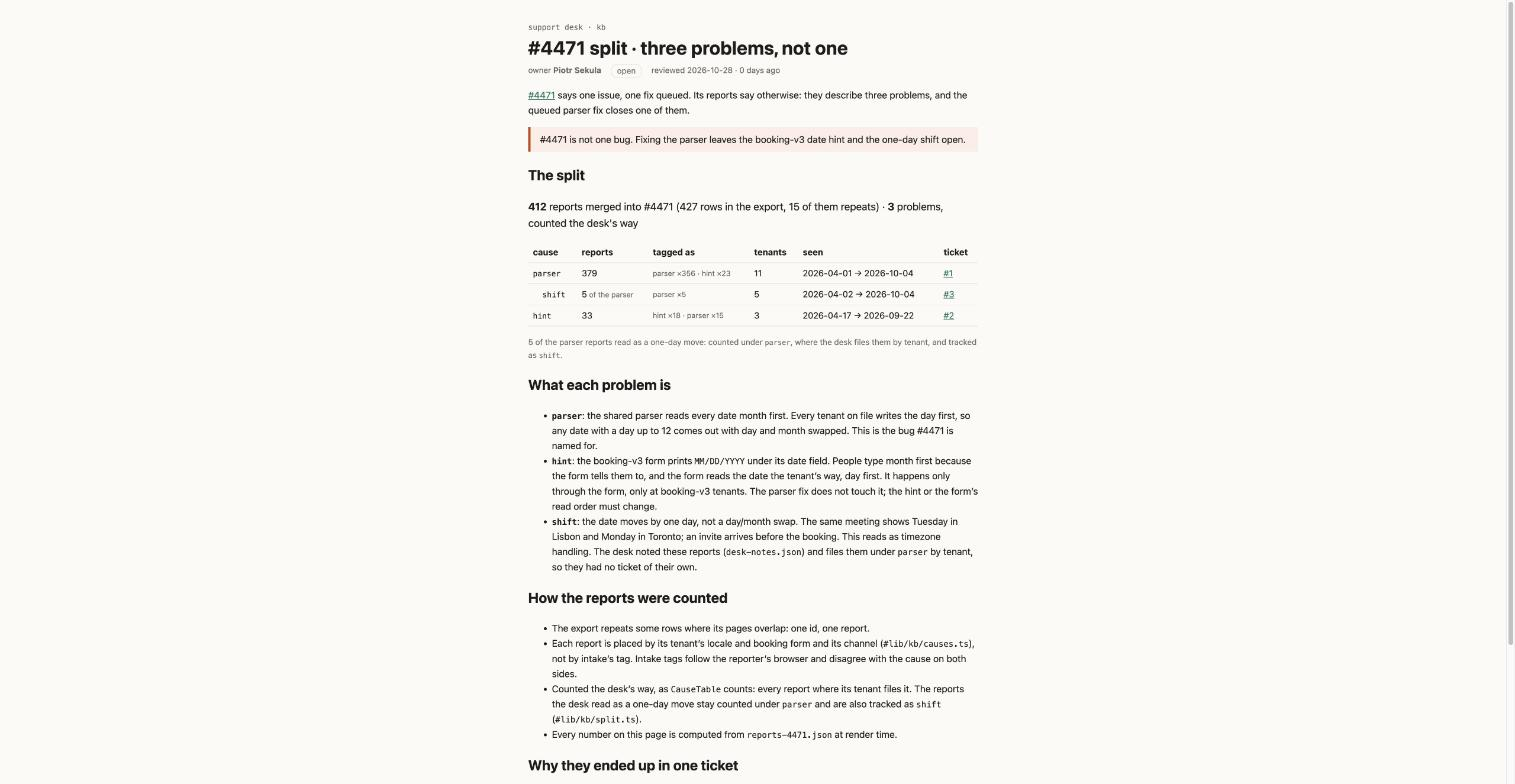
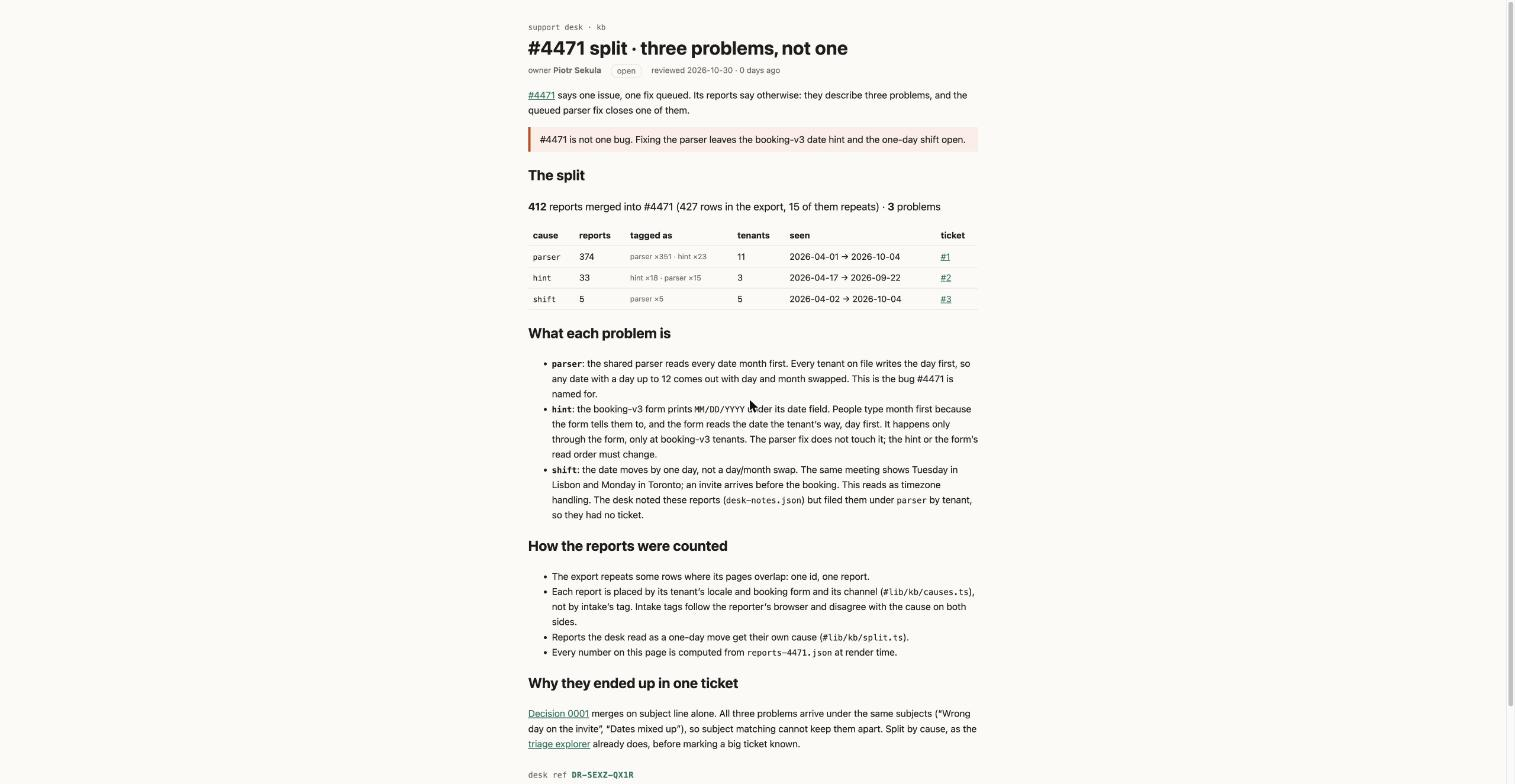
Sign the #4471 split page with the course ticket; counts back to parser 374, hint 33, shift 5

diff --git a/rendered/4471-split.html b/rendered/4471-split.html
@@ -9,11 +9,11 @@
 		<link href="../../_app/immutable/chunks/B2Ul7l_u.js" rel="modulepreload">
 		<link href="../../_app/immutable/chunks/BCPXOG7W.js" rel="modulepreload">
 		<link href="../../_app/immutable/chunks/Dh1V97Jm.js" rel="modulepreload">
-		<link href="../../_app/immutable/entry/app.Bpz4xozi.js" rel="modulepreload">
+		<link href="../../_app/immutable/entry/app.BpALxeYN.js" rel="modulepreload">
 		<link href="../../_app/immutable/nodes/0.C9KfiiPz.js" rel="modulepreload">
 		<link href="../../_app/immutable/chunks/DK3Fl9T5.js" rel="modulepreload">
-		<link href="../../_app/immutable/nodes/5.DKwGRpv8.js" rel="modulepreload">
-		<link href="../../_app/immutable/chunks/Dm7tqDGm.js" rel="modulepreload">
+		<link href="../../_app/immutable/nodes/5.Av00PVTr.js" rel="modulepreload">
+		<link href="../../_app/immutable/chunks/DHWMGCWV.js" rel="modulepreload">
 		<link href="../../_app/immutable/chunks/BTPwLomz.js" rel="modulepreload">
 		<link href="../../_app/immutable/chunks/CVBzP17p.js" rel="modulepreload">
 		<link href="../../_app/immutable/chunks/BIy4WKJS.js" rel="modulepreload">
@@ -22,25 +22,24 @@
 </style>
 		<style>aside.svelte-17bri61{border-left:4px solid var(--accent);background:var(--note-bg);margin:1rem 0;padding:.5rem 1rem}aside.warn.svelte-17bri61{border-color:var(--warn);background:var(--warn-bg)}
 </style>
-		<style>.sum.svelte-xskqqx{font-size:1.1rem}.tags.svelte-xskqqx{color:var(--muted);font-size:.85em}.within.svelte-xskqqx td:where(.svelte-xskqqx):first-child{padding-left:1.5rem}.of.svelte-xskqqx,.note.svelte-xskqqx{color:var(--muted);font-size:.85em}.open.svelte-xskqqx td:where(.svelte-xskqqx){background:var(--warn-bg)}.open.svelte-xskqqx td:where(.svelte-xskqqx):last-child{color:var(--warn);font-weight:600}.stamp.svelte-1280m42{font:.85rem var(--mono);color:var(--muted);margin:2rem 0 0}.stamp.svelte-1280m42 b:where(.svelte-1280m42){color:var(--accent);letter-spacing:.04em}.missing.svelte-1280m42{color:var(--warn)}
+		<style>.sum.svelte-xskqqx{font-size:1.1rem}.tags.svelte-xskqqx{color:var(--muted);font-size:.85em}.open.svelte-xskqqx td:where(.svelte-xskqqx){background:var(--warn-bg)}.open.svelte-xskqqx td:where(.svelte-xskqqx):last-child{color:var(--warn);font-weight:600}.stamp.svelte-1280m42{font:.85rem var(--mono);color:var(--muted);margin:2rem 0 0}.stamp.svelte-1280m42 b:where(.svelte-1280m42){color:var(--accent);letter-spacing:.04em}.missing.svelte-1280m42{color:var(--warn)}
 </style>
   </head>
   <body>
-    <div style="display: contents"><!--[--><!--[--><!--[0--><!--[--><!--[--><!--[-1--><!--[--><div class="kb svelte-e2jw2j"><header><a class="crumb svelte-e2jw2j" href="/kb">support desk · kb</a> <h1 class="svelte-e2jw2j">#4471 split · three problems, not one</h1> <p class="meta svelte-e2jw2j"><span>owner <b>Piotr Sekula</b></span> <span class="status open svelte-e2jw2j">open</span> <span class="svelte-e2jw2j">reviewed 2026-10-28 · 0 days ago</span></p></header> <!--[-1--><!--]--> <main><p><a href="/kb/incidents/4471">#4471</a> says one issue, one fix queued. Its reports say otherwise: they describe
-three problems, and the queued parser fix closes one of them.</p> <aside class="warn svelte-17bri61"><!---->#4471 is not one bug. Fixing the parser leaves the booking-v3 date hint and the one-day shift open.<!----></aside><!----> <h2>The split</h2> <p class="sum svelte-xskqqx"><strong>412</strong> reports merged into #4471 (427 rows in the export, 15 of them repeats) · <strong>3</strong> problems, counted the desk's way</p> <table><thead><tr><th>cause</th><th>reports</th><th>tagged as</th><th>tenants</th><th>seen</th><th>ticket</th></tr></thead><tbody><!--[--><tr class="svelte-xskqqx"><td class="svelte-xskqqx"><code>parser</code></td><td class="svelte-xskqqx">379<!--[-1--><!--]--></td><td class="tags svelte-xskqqx">parser ×356 · hint ×23</td><td class="svelte-xskqqx">11</td><td class="svelte-xskqqx">2026-04-01 → 2026-10-04</td><td class="svelte-xskqqx"><!--[0--><a href="https://github.com/piotr921/mega-s01e03/issues/1">#1</a><!--]--></td></tr><tr class="svelte-xskqqx within"><td class="svelte-xskqqx"><code>shift</code></td><td class="svelte-xskqqx">5<!--[0--><span class="of svelte-xskqqx"> of the parser</span><!--]--></td><td class="tags svelte-xskqqx">parser ×5</td><td class="svelte-xskqqx">5</td><td class="svelte-xskqqx">2026-04-02 → 2026-10-04</td><td class="svelte-xskqqx"><!--[0--><a href="https://github.com/piotr921/mega-s01e03/issues/3">#3</a><!--]--></td></tr><tr class="svelte-xskqqx"><td class="svelte-xskqqx"><code>hint</code></td><td class="svelte-xskqqx">33<!--[-1--><!--]--></td><td class="tags svelte-xskqqx">hint ×18 · parser ×15</td><td class="svelte-xskqqx">3</td><td class="svelte-xskqqx">2026-04-17 → 2026-09-22</td><td class="svelte-xskqqx"><!--[0--><a href="https://github.com/piotr921/mega-s01e03/issues/2">#2</a><!--]--></td></tr><!--]--></tbody></table> <!--[--><p class="note svelte-xskqqx">5 of the parser reports read as a one-day move: counted under <code>parser</code>, where the desk files them by tenant, and tracked as <code>shift</code>.</p><!--]--><!----> <h2>What each problem is</h2> <ul><li><strong><code>parser</code></strong>: the shared parser reads every date month first. Every tenant on file writes the day
+    <div style="display: contents"><!--[--><!--[--><!--[0--><!--[--><!--[--><!--[-1--><!--[--><div class="kb svelte-e2jw2j"><header><a class="crumb svelte-e2jw2j" href="/kb">support desk · kb</a> <h1 class="svelte-e2jw2j">#4471 split · three problems, not one</h1> <p class="meta svelte-e2jw2j"><span>owner <b>Piotr Sekula</b></span> <span class="status open svelte-e2jw2j">open</span> <span class="svelte-e2jw2j">reviewed 2026-10-30 · 0 days ago</span></p></header> <!--[-1--><!--]--> <main><p><a href="/kb/incidents/4471">#4471</a> says one issue, one fix queued. Its reports say otherwise: they describe
+three problems, and the queued parser fix closes one of them.</p> <aside class="warn svelte-17bri61"><!---->#4471 is not one bug. Fixing the parser leaves the booking-v3 date hint and the one-day shift open.<!----></aside><!----> <h2>The split</h2> <p class="sum svelte-xskqqx"><strong>412</strong> reports merged into #4471 (427 rows in the export, 15 of them repeats) · <strong>3</strong> problems</p> <table><thead><tr><th>cause</th><th>reports</th><th>tagged as</th><th>tenants</th><th>seen</th><th>ticket</th></tr></thead><tbody><!--[--><tr class="svelte-xskqqx"><td class="svelte-xskqqx"><code>parser</code></td><td class="svelte-xskqqx">374</td><td class="tags svelte-xskqqx">parser ×351 · hint ×23</td><td class="svelte-xskqqx">11</td><td class="svelte-xskqqx">2026-04-01 → 2026-10-04</td><td class="svelte-xskqqx"><!--[0--><a href="https://github.com/piotr921/mega-s01e03/issues/1">#1</a><!--]--></td></tr><tr class="svelte-xskqqx"><td class="svelte-xskqqx"><code>hint</code></td><td class="svelte-xskqqx">33</td><td class="tags svelte-xskqqx">hint ×18 · parser ×15</td><td class="svelte-xskqqx">3</td><td class="svelte-xskqqx">2026-04-17 → 2026-09-22</td><td class="svelte-xskqqx"><!--[0--><a href="https://github.com/piotr921/mega-s01e03/issues/2">#2</a><!--]--></td></tr><tr class="svelte-xskqqx"><td class="svelte-xskqqx"><code>shift</code></td><td class="svelte-xskqqx">5</td><td class="tags svelte-xskqqx">parser ×5</td><td class="svelte-xskqqx">5</td><td class="svelte-xskqqx">2026-04-02 → 2026-10-04</td><td class="svelte-xskqqx"><!--[0--><a href="https://github.com/piotr921/mega-s01e03/issues/3">#3</a><!--]--></td></tr><!--]--></tbody></table><!----> <h2>What each problem is</h2> <ul><li><strong><code>parser</code></strong>: the shared parser reads every date month first. Every tenant on file writes the day
 first, so any date with a day up to 12 comes out with day and month swapped. This is the bug
 #4471 is named for.</li> <li><strong><code>hint</code></strong>: the booking-v3 form prints <code>MM/DD/YYYY</code> under its date field. People type month
 first because the form tells them to, and the form reads the date the tenant’s way, day first. It
 happens only through the form, only at booking-v3 tenants. The parser fix does not touch it; the
 hint or the form’s read order must change.</li> <li><strong><code>shift</code></strong>: the date moves by one day, not a day/month swap. The same meeting shows Tuesday in
 Lisbon and Monday in Toronto; an invite arrives before the booking. This reads as timezone
-handling. The desk noted these reports (<code>desk-notes.json</code>) and files them under <code>parser</code> by
-tenant, so they had no ticket of their own.</li></ul> <h2>How the reports were counted</h2> <ul><li>The export repeats some rows where its pages overlap: one id, one report.</li> <li>Each report is placed by its tenant’s locale and booking form and its channel
+handling. The desk noted these reports (<code>desk-notes.json</code>) but filed them under <code>parser</code> by
+tenant, so they had no ticket.</li></ul> <h2>How the reports were counted</h2> <ul><li>The export repeats some rows where its pages overlap: one id, one report.</li> <li>Each report is placed by its tenant’s locale and booking form and its channel
 (<code>#lib/kb/causes.ts</code>), not by intake’s tag. Intake tags follow the reporter’s browser and
-disagree with the cause on both sides.</li> <li>Counted the desk’s way, as <code>CauseTable</code> counts: every report where its tenant files it. The
-reports the desk read as a one-day move stay counted under <code>parser</code> and are also tracked as <code>shift</code> (<code>#lib/kb/split.ts</code>).</li> <li>Every number on this page is computed from <code>reports-4471.json</code> at render time.</li></ul> <h2>Why they ended up in one ticket</h2> <p><a href="/kb/decisions/0001-dedupe-by-subject">Decision 0001</a> merges on subject line alone. All three
+disagree with the cause on both sides.</li> <li>Reports the desk read as a one-day move get their own cause (<code>#lib/kb/split.ts</code>).</li> <li>Every number on this page is computed from <code>reports-4471.json</code> at render time.</li></ul> <h2>Why they ended up in one ticket</h2> <p><a href="/kb/decisions/0001-dedupe-by-subject">Decision 0001</a> merges on subject line alone. All three
 problems arrive under the same subjects (“Wrong day on the invite”, “Dates mixed up”), so subject
-matching cannot keep them apart. Split by cause, as the <a href="/kb/triage/dedupe">triage explorer</a> already does, before marking a big ticket known.</p> <!--[0--><p class="stamp svelte-1280m42">desk ref <b class="svelte-1280m42">DR-P9E6-NB78</b></p><!--]--><!----><!----></main> <footer class="svelte-e2jw2j">Pages are written by people. Tables and charts are built from data at render time.</footer></div><!--]--><!--]--><!--]--><!----><!--]--><!--]--><!--]--><!----> <!--[-1--><!--]--><!--]-->
+matching cannot keep them apart. Split by cause, as the <a href="/kb/triage/dedupe">triage explorer</a> already does, before marking a big ticket known.</p> <!--[0--><p class="stamp svelte-1280m42">desk ref <b class="svelte-1280m42">DR-SEXZ-QX1R</b></p><!--]--><!----><!----></main> <footer class="svelte-e2jw2j">Pages are written by people. Tables and charts are built from data at render time.</footer></div><!--]--><!--]--><!--]--><!----><!--]--><!--]--><!--]--><!----> <!--[-1--><!--]--><!--]-->
 			
 			
 		</div>

diff --git a/src/lib/kb/split.ts b/src/lib/kb/split.ts
@@ -1,26 +1,34 @@
-// #4471 by problem, counted the desk's way: every report where causes.ts files it (by tenant and
-// channel). The reports the desk read as a one-day move (desk-notes.json) stay counted where they are
-// filed, as CauseTable does, and also form a problem of their own: a day lost, not a day and month swapped.
-import { groupByCause, readAs, uniqueById, type CauseGroup, type Report, type Tenant } from '#lib/kb/causes';
+// #4471 split by what the reports describe. causes.ts places a report by tenant and channel; the desk's
+// one-day-move notes (desk-notes.json) are reports that place says nothing about: a day lost, not a
+// day and month swapped. Here they get a cause of their own instead of a footnote.
+import { groupByCause, uniqueById, type CauseGroup, type Report, type Tenant } from '#lib/kb/causes';
 
 export type SplitCause = CauseGroup['cause'] | 'shift';
-export type SplitRow = { cause: SplitCause; reports: number; group: CauseGroup; within?: CauseGroup['cause'] };
+export type SplitGroup = Omit<CauseGroup, 'cause'> & { cause: SplitCause };
+
+function shiftGroup(rs: Report[]): SplitGroup {
+  const days = rs.map((r) => r.receivedAt.slice(0, 10)).sort();
+  return {
+    cause: 'shift',
+    reports: rs,
+    taggedAs: rs.reduce<Record<string, number>>((n, r) => ({ ...n, [r.meta.intakeTag]: (n[r.meta.intakeTag] ?? 0) + 1 }), {}),
+    tenants: new Set(rs.map((r) => r.tenant)).size,
+    firstSeen: days[0],
+    lastSeen: days[days.length - 1],
+    mergedInto: [...new Set(rs.flatMap((r) => (r.mergedInto ? [r.mergedInto] : [])))],
+  };
+}
 
 export function splitByCause(
   reports: Report[],
   tenantOf: (r: Report) => Tenant | undefined,
   oneDayMove: readonly string[],
-): SplitRow[] {
-  const rows: SplitRow[] = [];
-  for (const g of groupByCause(reports, tenantOf)) {
-    rows.push({ cause: g.cause, reports: g.reports.length, group: g });
-    const moved = readAs(g, oneDayMove);
-    if (moved) {
-      const shifted = g.reports.filter((r) => oneDayMove.includes(r.id));
-      rows.push({ cause: 'shift', reports: moved, group: { ...groupByCause(shifted, tenantOf)[0] }, within: g.cause });
-    }
-  }
-  return rows;
+): SplitGroup[] {
+  const shifted = reports.filter((r) => oneDayMove.includes(r.id));
+  const rest = reports.filter((r) => !oneDayMove.includes(r.id));
+  const groups: SplitGroup[] = groupByCause(rest, tenantOf);
+  if (shifted.length) groups.push(shiftGroup(shifted));
+  return groups.sort((a, b) => b.reports.length - a.reports.length);
 }
 
 export { uniqueById };

diff --git a/src/lib/kb/SplitTable.svelte b/src/lib/kb/SplitTable.svelte
@@ -22,7 +22,7 @@
 <p class="sum">
   <strong>{merged.length}</strong> reports merged into #{ticket} ({rows.length} rows in the export, {rows.length - merged.length} of them repeats) ·
   <strong>{groups.length}</strong>
-  {groups.length === 1 ? 'problem' : 'problems'}, counted the desk's way
+  {groups.length === 1 ? 'problem' : 'problems'}
 </p>
 
 <table>
@@ -30,29 +30,22 @@
     <tr><th>cause</th><th>reports</th><th>tagged as</th><th>tenants</th><th>seen</th><th>ticket</th></tr>
   </thead>
   <tbody>
-    {#each groups as row (row.cause)}
-      {@const g = row.group}
-      <tr class:open={!tickets[row.cause]} class:within={row.within}>
-        <td><code>{row.cause}</code></td>
-        <td>{row.reports}{#if row.within}<span class="of">&nbsp;of the {row.within}</span>{/if}</td>
+    {#each groups as g (g.cause)}
+      <tr class:open={!tickets[g.cause]}>
+        <td><code>{g.cause}</code></td>
+        <td>{g.reports.length}</td>
         <td class="tags">{tags(g)}</td>
         <td>{g.tenants}</td>
         <td>{g.firstSeen} → {g.lastSeen}</td>
-        <td>{#if tickets[row.cause]}<a href={tickets[row.cause]}>{issue(tickets[row.cause]!)}</a>{:else}no ticket yet{/if}</td>
+        <td>{#if tickets[g.cause]}<a href={tickets[g.cause]}>{issue(tickets[g.cause]!)}</a>{:else}no ticket yet{/if}</td>
       </tr>
     {/each}
   </tbody>
 </table>
 
-{#each groups.filter((row) => row.within) as row (row.cause)}
-  <p class="note">{row.reports} of the {row.within} reports read as a one-day move: counted under <code>{row.within}</code>, where the desk files them by tenant, and tracked as <code>{row.cause}</code>.</p>
-{/each}
-
 <style>
   .sum { font-size: 1.1rem; }
   .tags { color: var(--muted); font-size: 0.85em; }
-  .within td:first-child { padding-left: 1.5rem; }
-  .of, .note { color: var(--muted); font-size: 0.85em; }
   .open td { background: var(--warn-bg); }
   .open td:last-child { color: var(--warn); font-weight: 600; }
 </style>
